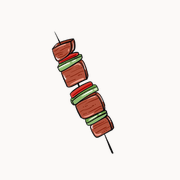
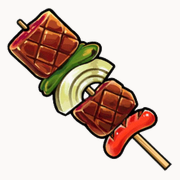
Make the mark read as a mshikaki, and 1.5x bigger
The first cut used the thin line-art skewer, which reads as a stick at the
sizes the app actually shows. This cuts the richer skewer instead, drops
its white background, and shows it half again larger everywhere: the
sidebar, the phone header, the login screen, the opening screen, the wrap,
the first-run empty state, and the minutes masthead in both HTML and PDF.

The mark is quantised to 192px and 10KB, so the minutes stay light: the
HTML is 17KB with the mark inlined, the PDF 26KB.

diff --git a/frontend/src/layouts/AppLayout.tsx b/frontend/src/layouts/AppLayout.tsx
@@ -61,7 +61,7 @@ export function AppLayout() {
             to="/"
             className="flex items-center gap-2 text-base font-semibold tracking-tight text-ember-700"
           >
-            <img src="/mshikaki-mark.png" alt="" aria-hidden className="size-6" />
+            <img src="/mshikaki-mark.png" alt="" aria-hidden className="size-9" />
             MSHIKAKI
           </NavLink>
           <span className="hidden truncate text-sm text-ink-600 sm:inline">
@@ -184,7 +184,7 @@ export function AppLayout() {
 
       <aside className="fixed inset-y-0 left-0 hidden w-64 border-r border-ink-200 bg-white p-4 lg:block">
         <div className="flex items-center gap-2 px-2 py-3">
-          <img src="/mshikaki-mark.png" alt="" aria-hidden className="size-8" />
+          <img src="/mshikaki-mark.png" alt="" aria-hidden className="size-12" />
           <p className="text-lg font-semibold tracking-tight text-ember-700">MSHIKAKI</p>
         </div>
         <nav className="space-y-1">

diff --git a/frontend/src/pages/RunModePage.tsx b/frontend/src/pages/RunModePage.tsx
@@ -371,7 +371,7 @@ function PlayStep({ session, canDrive }: { session: SessionDetail; canDrive: boo
   return (
     <Card className="bg-white/5 text-white">
       <h2 className="flex items-center gap-3 text-3xl font-semibold">
-        <img src="/mshikaki-mark.png" alt="" aria-hidden className="size-10" />
+        <img src="/mshikaki-mark.png" alt="" aria-hidden className="size-[60px]" />
         Ready to begin?
       </h2>
       <p className="mt-2 max-w-2xl text-white/70">
@@ -1125,7 +1125,7 @@ function CloseStep({ sessionId, canDrive }: { sessionId: string; canDrive: boole
   return (
     <Card className="bg-white/5 text-white">
       <h2 className="flex items-center gap-3 text-3xl font-semibold">
-        <img src="/mshikaki-mark.png" alt="" aria-hidden className="size-12" />
+        <img src="/mshikaki-mark.png" alt="" aria-hidden className="size-[72px]" />
         That's a wrap!
       </h2>
       <p className="mt-2 text-white/70">

diff --git a/frontend/src/pages/LoginPage.tsx b/frontend/src/pages/LoginPage.tsx
@@ -37,7 +37,7 @@ export function LoginPage() {
     <main className="mx-auto flex min-h-dvh max-w-md flex-col justify-center gap-6 p-5">
       <header className="space-y-2">
         <p className="flex items-center gap-2 text-sm font-semibold tracking-wide text-ember-700 uppercase">
-          <img src="/mshikaki-mark.png" alt="" aria-hidden className="size-10" />
+          <img src="/mshikaki-mark.png" alt="" aria-hidden className="size-[60px]" />
           Mshikaki
         </p>
         <h1 className="text-3xl font-semibold text-balance">

diff --git a/frontend/src/components/states.tsx b/frontend/src/components/states.tsx
@@ -85,7 +85,7 @@ export function EmptyState({
   return (
     <Card className="border-dashed bg-ink-50 text-center">
       {mark ? (
-        <img src="/mshikaki-mark.png" alt="" aria-hidden className="mx-auto mb-2 size-16" />
+        <img src="/mshikaki-mark.png" alt="" aria-hidden className="mx-auto mb-3 size-24" />
       ) : null}
       <p className="font-medium">{title}</p>
       {body ? <p className="mt-1 text-sm text-ink-600">{body}</p> : null}

diff --git a/backend/app/services/minutes_pdf.py b/backend/app/services/minutes_pdf.py
@@ -162,11 +162,11 @@ def render_minutes_pdf(snapshot: dict[str, Any], *, team_name: str, reference: s
         header = Table(
             [
                 [
-                    PdfImage(str(_MARK_PATH), width=11 * mm, height=11 * mm),
+                    PdfImage(str(_MARK_PATH), width=17 * mm, height=17 * mm),
                     masthead,
                 ]
             ],
-            colWidths=[14 * mm, None],
+            colWidths=[21 * mm, None],
         )
         header.setStyle(
             TableStyle(

diff --git a/backend/app/domain/minutes.py b/backend/app/domain/minutes.py
@@ -264,7 +264,7 @@ def render_minutes_html(
          line-height: 1.5; }}
   .masthead {{ display: flex; align-items: center; gap: 10px;
                border-bottom: 3px solid #b1451f; padding-bottom: 8px; }}
-  .masthead .mark {{ width: 34px; height: 34px; flex: none; }}
+  .masthead .mark {{ width: 52px; height: 52px; flex: none; }}
   h1 {{ font-size: 20px; letter-spacing: .12em; text-transform: uppercase; color: #b1451f;
         margin: 0; }}
   h2.doc-title {{ font-size: 26px; margin: 12px 0 24px; }}
